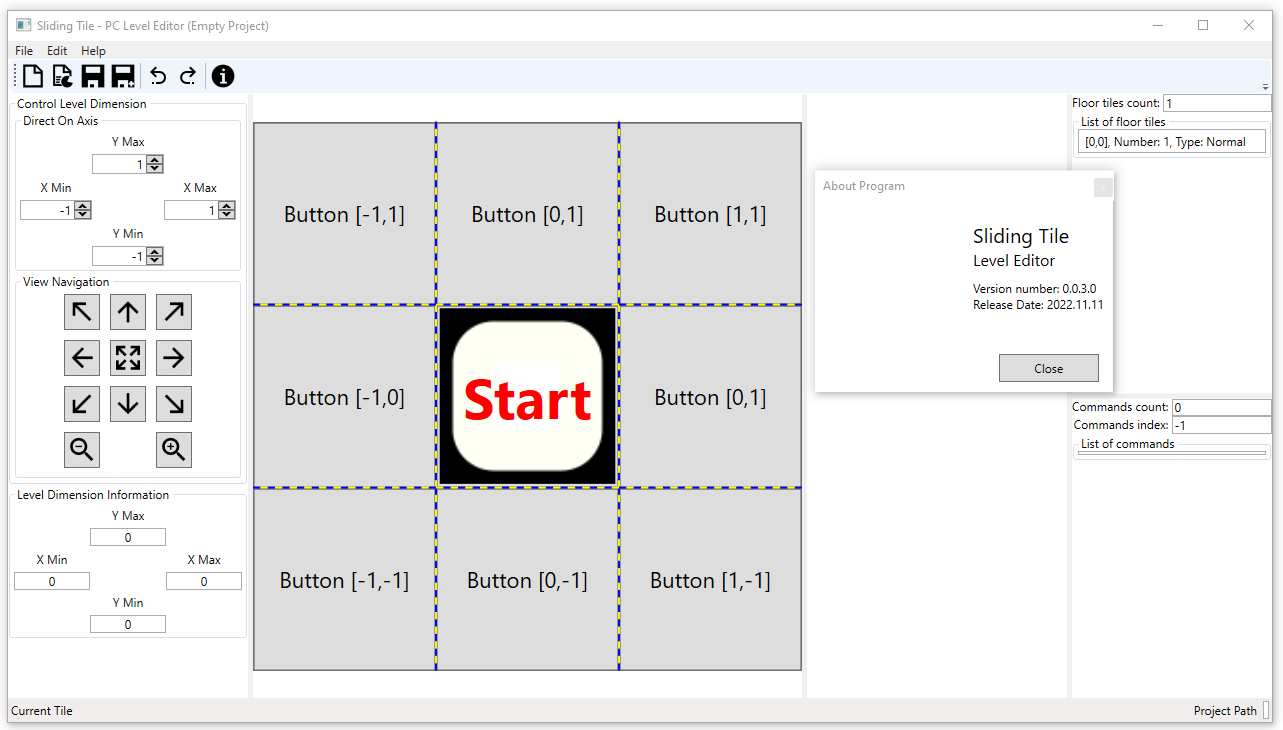
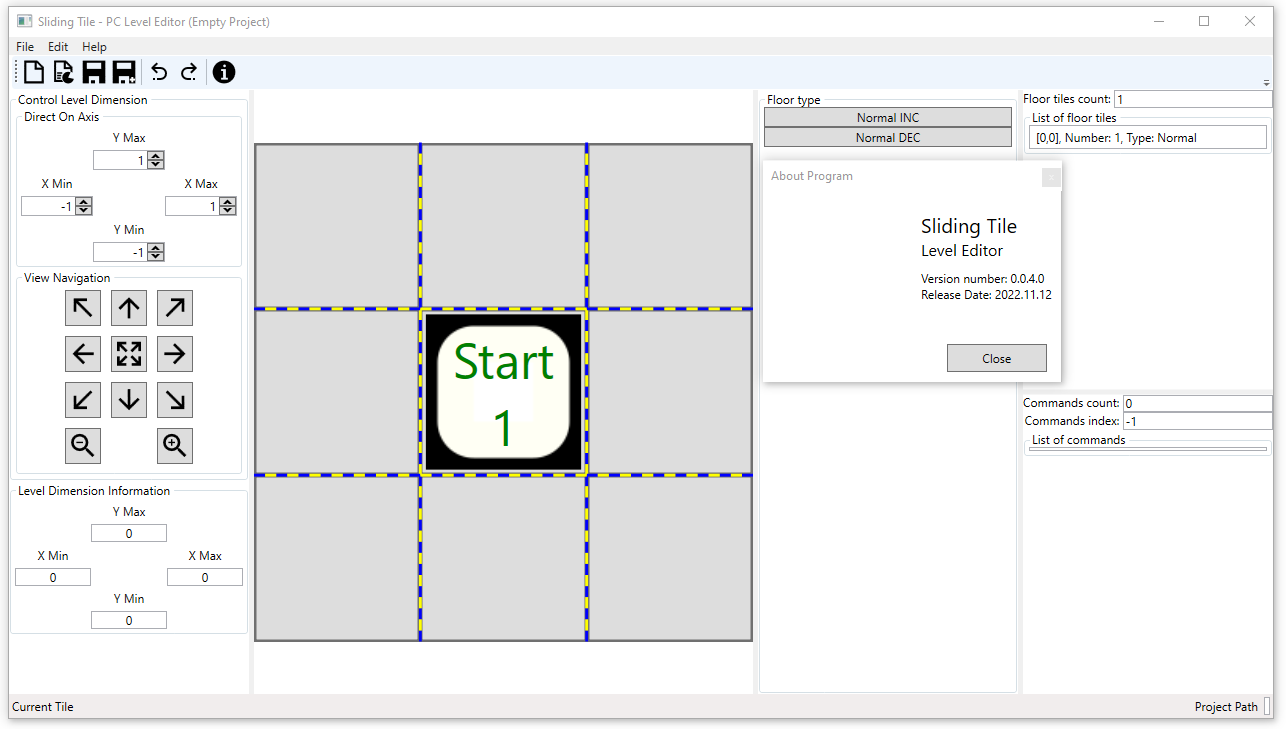
Update README.md for v0.0.4

diff --git a/README.md b/README.md
@@ -9,5 +9,7 @@ If you want you can download current and previous versions of builds here: https
 All screenshots from current and previous versions are available here: https://drive.google.com/drive/folders/1-FidD1OD7rUD8FofAtj2pLFxnxY2X5eZ?usp=sharing
 
 ### 1. Inital program view and 'About Program' window
-
 ![alt text](screenshots/1InitialViewAndAboutProgram.png)
+
+### 2. Sample save level
+![alt text](screenshots/2SampleLevel.png)
